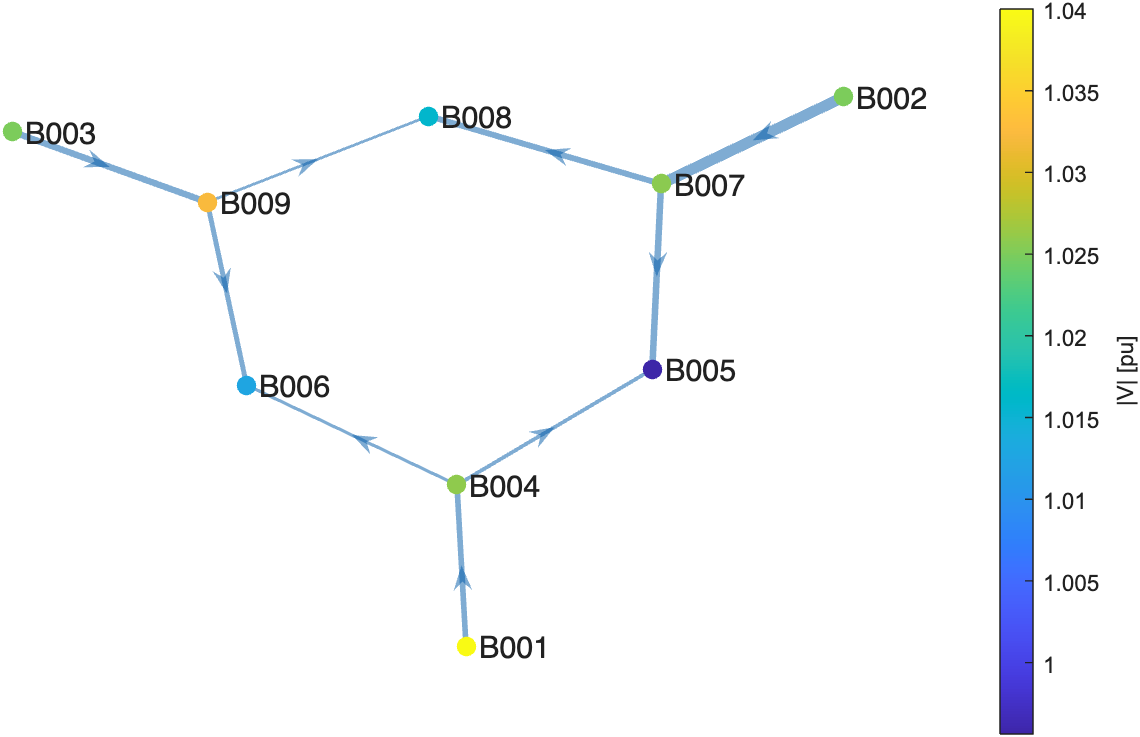
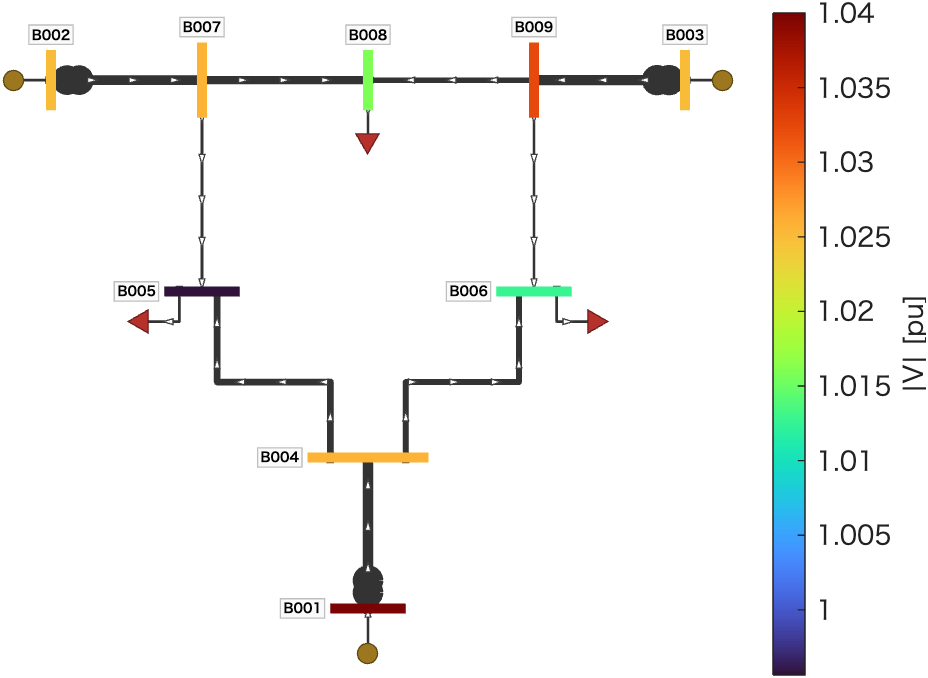
docs: replace plot_network in the Part 2 lecture page

Changed region(s): [[0.0, 0.0, 1.0, 1.0], [0.2812, 0.1858, 0.3125, 0.2168]]

diff --git a/lecture/part2-power-flow.html b/lecture/part2-power-flow.html
@@ -265,10 +265,10 @@ result.plot_convergence();</code></pre>
 
           <figure class="lec-figure is-scroll" style="--lec-min-w: 560px;">
             <div class="lec-scroll">
-              <img src="../images/lecture/part2/ieee9-flow.png" alt="Power flow of the IEEE 9-bus system drawn by GUILDA: the buses B001 to B009 coloured by voltage magnitude, highest at B001 (1.04 pu) and lowest at B005 (about 0.996 pu), and the branches as arrows in the direction of the active power, widest from B002 to B007" width="1140" height="737">
+              <img src="../images/lecture/part2/ieee9-flow.png" alt="Power flow of the IEEE 9-bus system drawn by GUILDA: the buses B001 to B009 as bars coloured by voltage magnitude, highest at B001 (1.04 pu) and lowest at B005 (about 0.996 pu), and small white triangles on the branches pointing in the direction of the active power" data-alt-ja="GUILDA で描いた IEEE 9 母線系統の潮流。母線 B001〜B009 は電圧の大きさで色分けした棒で、最も高いのが B001（1.04 pu）、最も低いのが B005（約 0.996 pu）です。ブランチ上の白い小さな三角は有効電力の向きを指しています。" width="928" height="678">
             </div>
-            <figcaption lang="en">Power flow of the IEEE 9-bus system computed and drawn with GUILDA (<code>plot_network</code>). The colour of each bus is its voltage magnitude <span class="lec-math-inline" data-tex="|V|"></span> (pu). Each arrow points in the direction of the active power, and a wider arrow carries more. The values below are those of <code>result.tab_bus</code> and <code>result.tab_branch</code>; every arrow goes from the larger angle to the smaller one.</figcaption>
-            <figcaption lang="ja">GUILDA で計算し、GUILDA の <code>plot_network</code> で描いた IEEE 9 母線系統の潮流です。母線の色は電圧の大きさ <span class="lec-math-inline" data-tex="|V|"></span>（pu）です。矢印は有効電力の向きで、太いほど多く流れています。下の値は <code>result.tab_bus</code> と <code>result.tab_branch</code> のものです。どの矢印も、位相角の大きい母線から小さい母線へ向いています。</figcaption>
+            <figcaption lang="en">Power flow of the IEEE 9-bus system computed and drawn with GUILDA (<code>plot_diagram</code>). The colour of each bus is its voltage magnitude <span class="lec-math-inline" data-tex="|V|"></span> (pu). The small white triangles on each branch point in the direction of the active power. The values below are those of <code>result.tab_bus</code> and <code>result.tab_branch</code>; every triangle points from the larger angle to the smaller one.</figcaption>
+            <figcaption lang="ja">GUILDA で計算し、GUILDA の <code>plot_diagram</code> で描いた IEEE 9 母線系統の潮流です。母線の色は電圧の大きさ <span class="lec-math-inline" data-tex="|V|"></span>（pu）です。ブランチ上の白い小さな三角は有効電力の向きを指しています。下の値は <code>result.tab_bus</code> と <code>result.tab_branch</code> のものです。どの三角も、位相角の大きい母線から小さい母線へ向いています。</figcaption>
           </figure>
 
           <p lang="en">Some points to read from the picture:</p>
@@ -280,13 +280,13 @@ result.plot_convergence();</code></pre>
             <li><span lang="en"><strong>Losses.</strong> The total generation is 3.196 pu, so the active losses are 0.046 pu, about 1.5 % of the load. On each line with resistance, the power at the receiving end is a little smaller than at the sending end.</span><span lang="ja"><strong>損失</strong>: 発電の合計は 3.196 pu なので、有効電力の損失は 0.046 pu で、負荷の約 1.5 % です。抵抗のある送電線では、受け取る側の端の電力が、送り出す側よりわずかに小さくなります。</span></li>
           </ul>
           <div class="lec-callout">
-            <p lang="en">In GUILDA, the power flow calculation returns a result object. Its <code>disp_summary</code> prints the outcome, the totals of generation, load and losses, and the range of voltages; <code>result.tab_bus</code> and <code>result.tab_branch</code> hold the values of each bus and branch; <code>plot_voltage</code> and <code>plot_network</code> draw them. The power flow does not change the model.</p>
-            <p lang="ja">GUILDA では、潮流計算が結果のオブジェクトを返します。その <code>disp_summary</code> は計算の結果、発電・負荷・損失の合計、電圧の範囲を表示します。母線ごと、ブランチごとの値は <code>result.tab_bus</code> と <code>result.tab_branch</code> にあり、<code>plot_voltage</code> や <code>plot_network</code> で図にできます。潮流計算はモデルを書き換えません。</p>
+            <p lang="en">In GUILDA, the power flow calculation returns a result object. Its <code>disp_summary</code> prints the outcome, the totals of generation, load and losses, and the range of voltages; <code>result.tab_bus</code> and <code>result.tab_branch</code> hold the values of each bus and branch; <code>plot_voltage</code> and <code>plot_diagram</code> draw them, and <code>plot_single_line_diagram</code> draws a black-and-white single-line diagram for papers. The power flow does not change the model.</p>
+            <p lang="ja">GUILDA では、潮流計算が結果のオブジェクトを返します。その <code>disp_summary</code> は計算の結果、発電・負荷・損失の合計、電圧の範囲を表示します。母線ごと、ブランチごとの値は <code>result.tab_bus</code> と <code>result.tab_branch</code> にあり、<code>plot_voltage</code> や <code>plot_diagram</code> で図にできます。<code>plot_single_line_diagram</code> は論文向けの白黒の単線結線図を描きます。潮流計算はモデルを書き換えません。</p>
             <pre class="lec-cmd"><code>net = network.IEEE9bus();
 result = net.calculate_powerflow();
 result.disp_summary();
 result.plot_voltage();
-result.plot_network();</code></pre>
+result.plot_diagram(BusColorMode="V", ColorMode="none");</code></pre>
           </div>
         </section>
 
